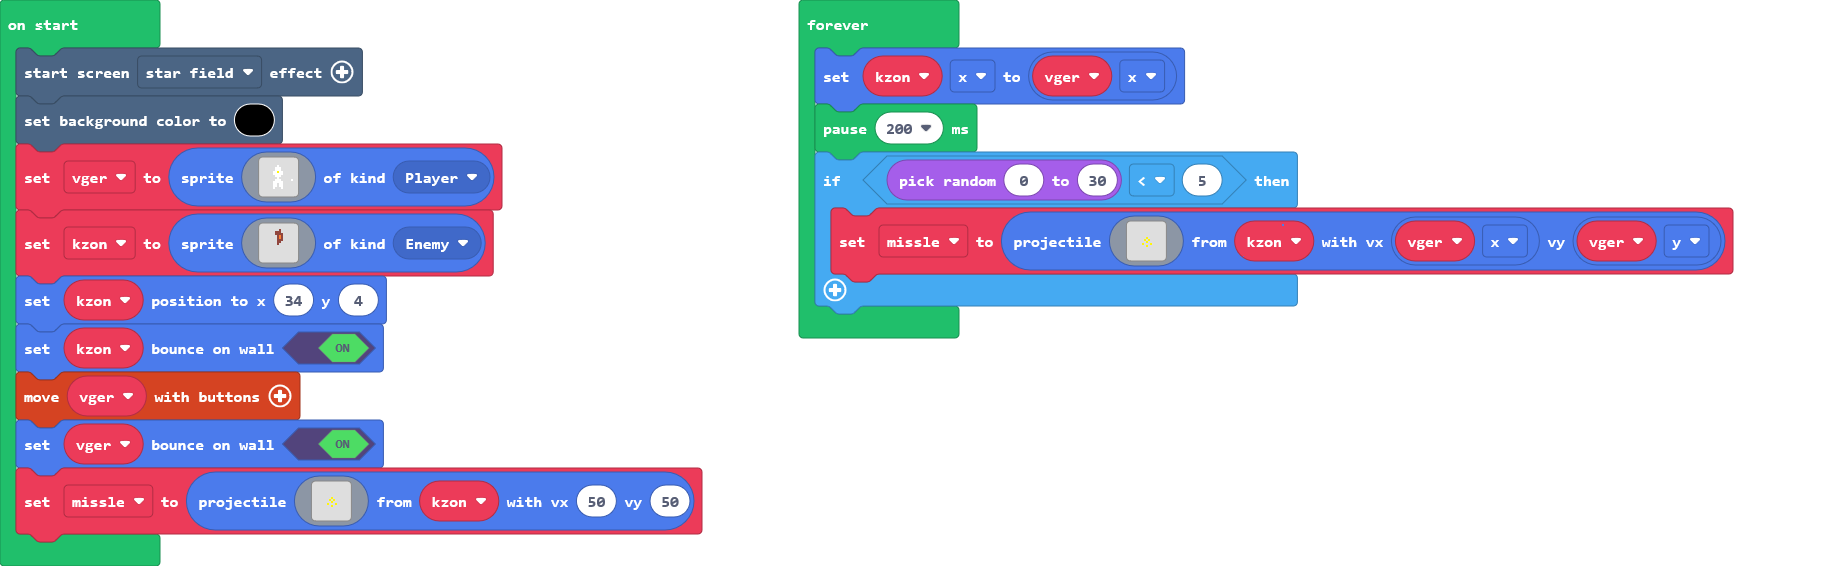
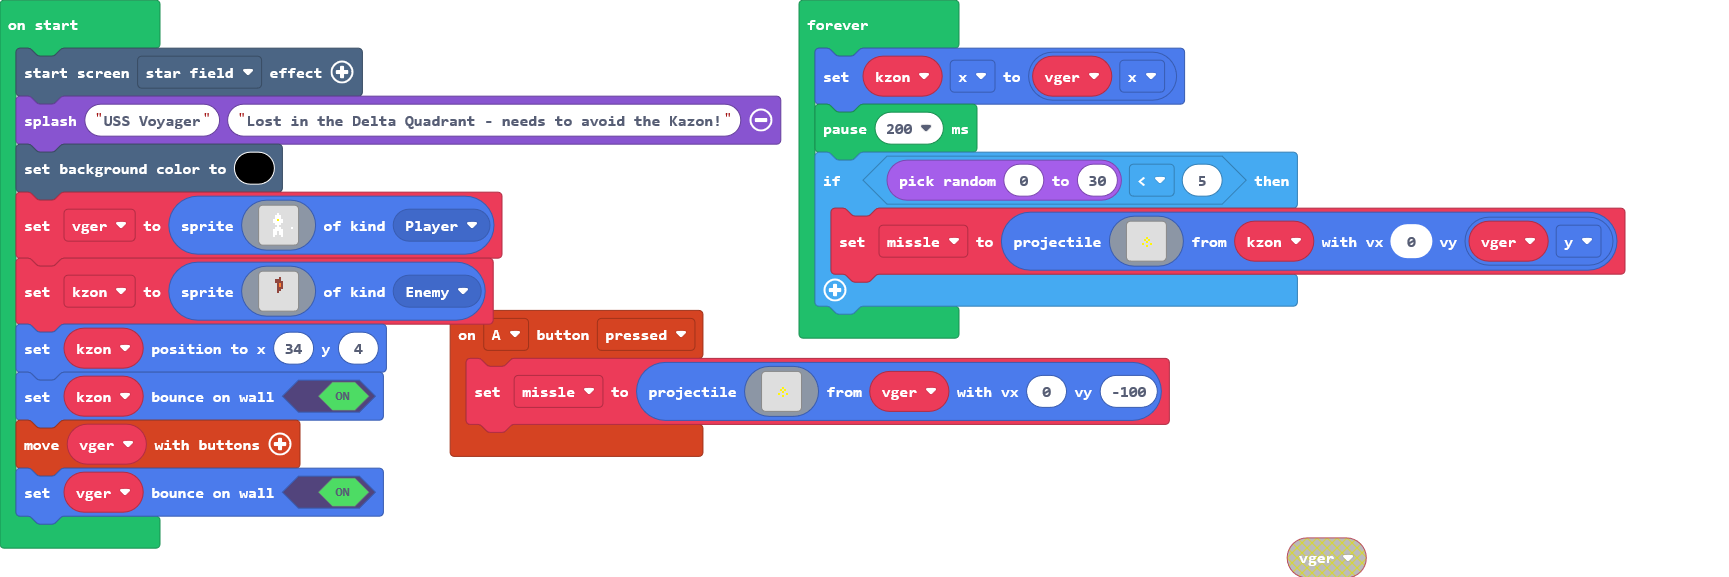
Update main.blocks, main.ts

diff --git a/main.ts b/main.ts
@@ -1,16 +1,21 @@
+controller.A.onEvent(ControllerButtonEvent.Pressed, function () {
+    missle = sprites.createProjectileFromSprite(assets.image`missle`, vger, 0, -100)
+})
+let missle: Sprite = null
+let vger: Sprite = null
 effects.starField.startScreenEffect()
+game.splash("USS Voyager", "Lost in the Delta Quadrant - needs to avoid the Kazon!")
 scene.setBackgroundColor(15)
-let vger = sprites.create(assets.image`Voyager`, SpriteKind.Player)
+vger = sprites.create(assets.image`Voyager`, SpriteKind.Player)
 let kzon = sprites.create(assets.image`myImage`, SpriteKind.Enemy)
 kzon.setPosition(34, 4)
 kzon.setBounceOnWall(true)
 controller.moveSprite(vger)
 vger.setBounceOnWall(true)
-let missle = sprites.createProjectileFromSprite(assets.image`missle`, kzon, 50, 50)
 forever(function () {
     kzon.x = vger.x
     pause(200)
     if (randint(0, 30) < 5) {
-        missle = sprites.createProjectileFromSprite(assets.image`missle`, kzon, vger.x, vger.y)
+        missle = sprites.createProjectileFromSprite(assets.image`missle`, kzon, 0, vger.y)
     }
 })
